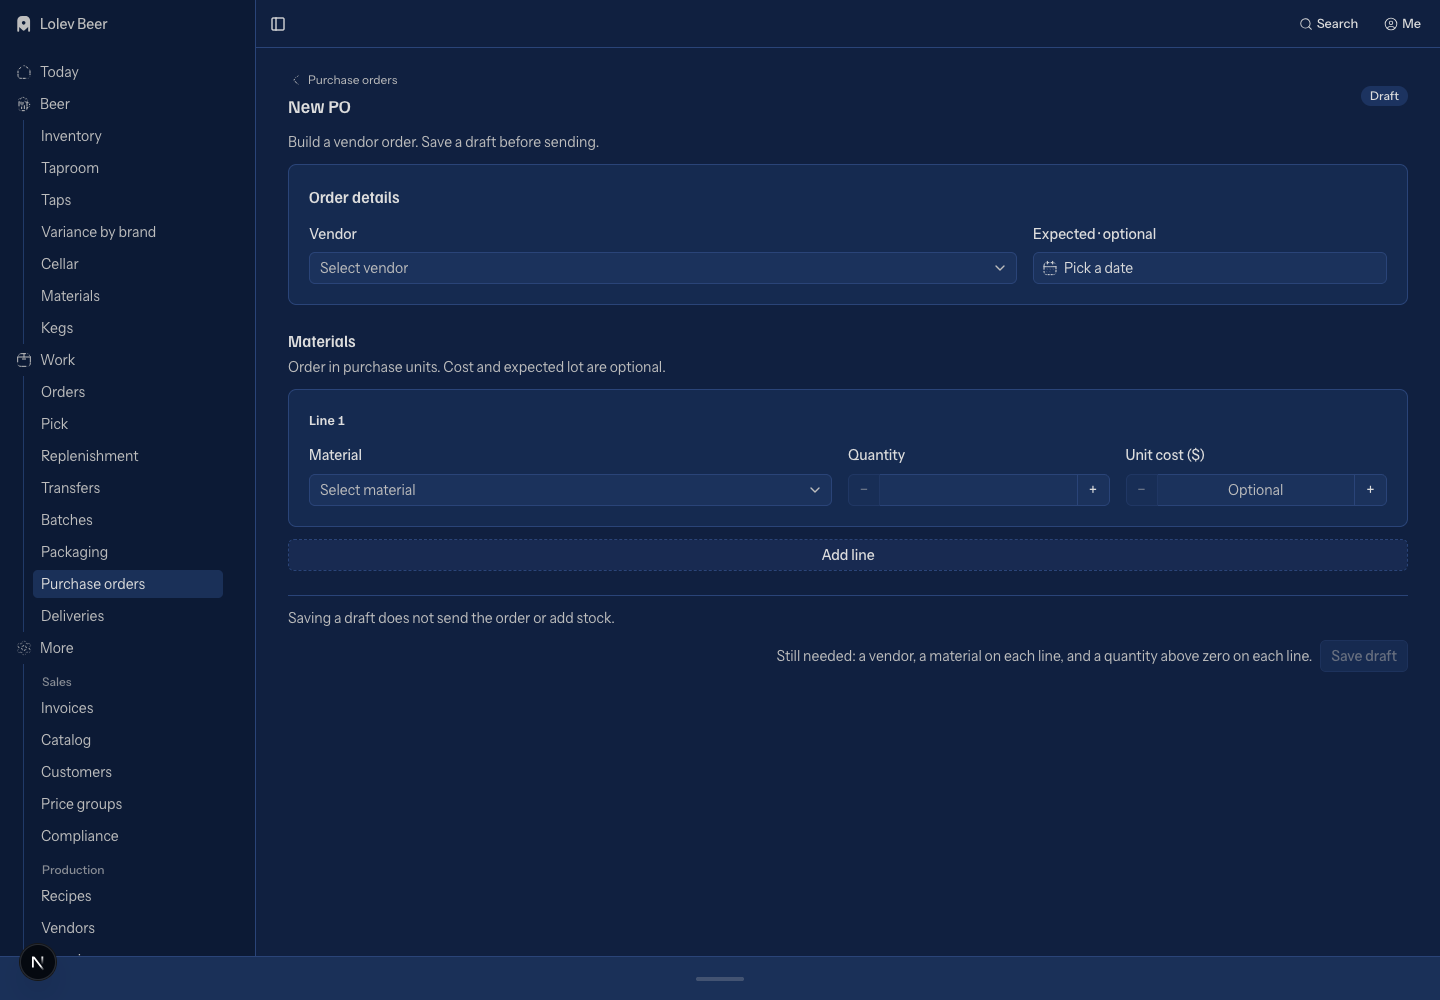
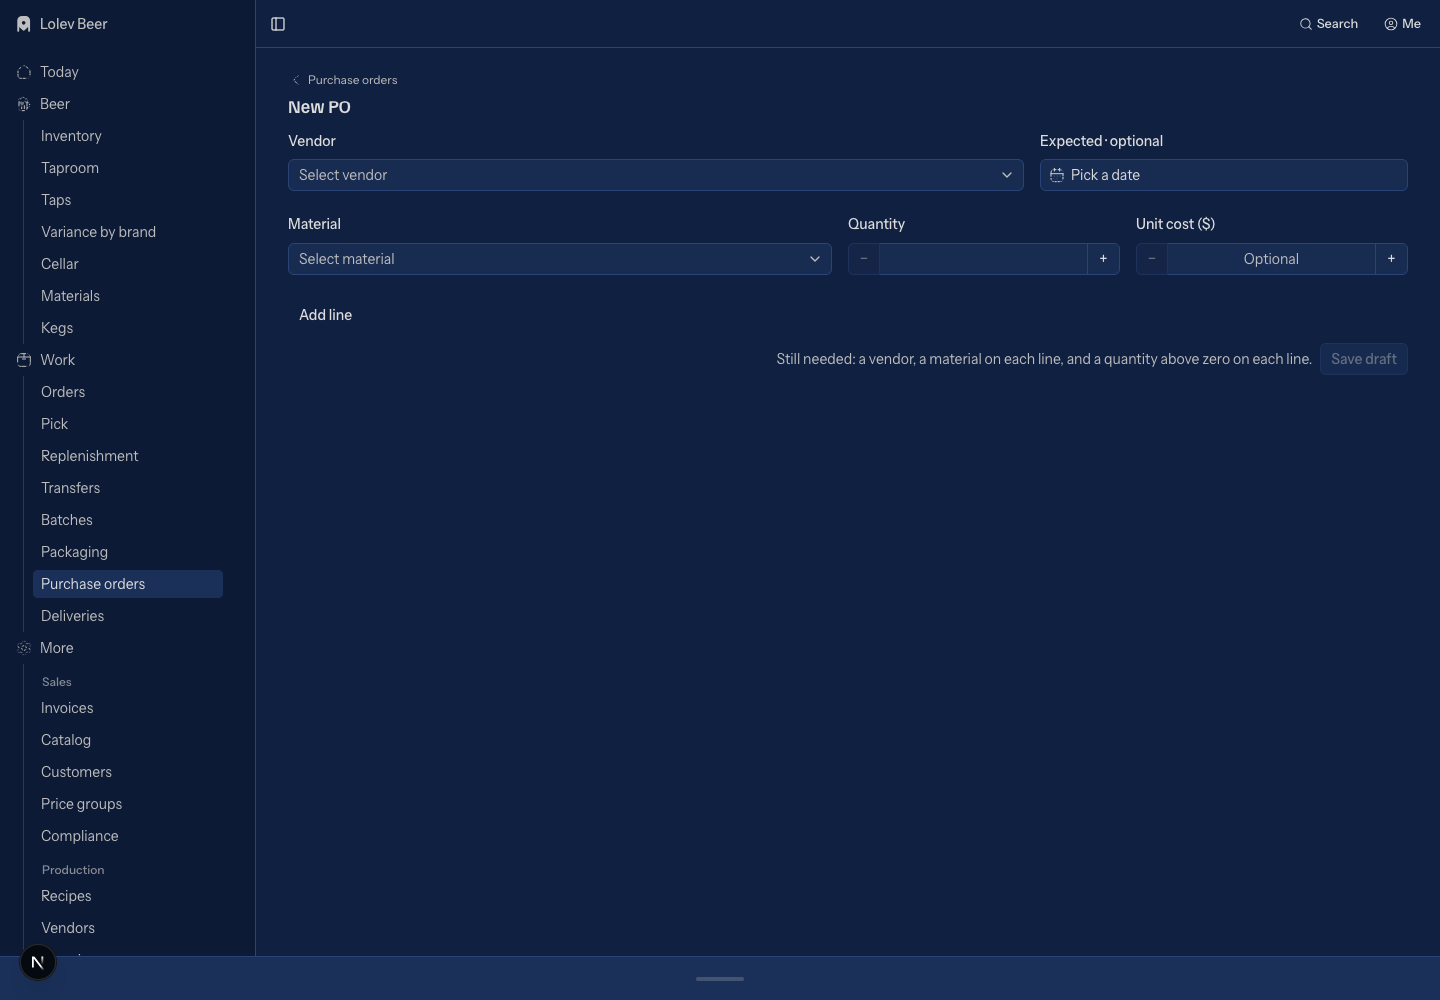
Flatten purchase order form and remove redundant chrome

diff --git a/components/mgr/views/new-po.tsx b/components/mgr/views/new-po.tsx
@@ -4,9 +4,7 @@ import { useId, type ReactNode } from "react";
 import { E } from "@/components/mgr/e";
 import { Button } from "@/components/ui/button";
 import { DatePicker } from "@/components/mgr/date-picker";
-import { Badge } from "@/components/ui/badge";
 import { FieldGroup } from "@/components/ui/field";
-import { Separator } from "@/components/ui/separator";
 import { poLineErrors, type NewPoViewModel } from "@/lib/mgr/new-po-view";
 import { noMaterialsPick } from "@/lib/mgr/materials-view";
 import { useTouchedLines } from "@/lib/mgr/touched-lines";
@@ -30,24 +28,16 @@ export function NewPoView({ model, controls = {}, messages, footer, submitting =
   const vendors = model.vendors ?? [{ id: model.vendor, name: model.vendor }];
   const vendorOptions = [{ value: "", label: "Select vendor" }, ...vendors.map(vendor => ({ value: vendor.id, label: vendor.name }))];
   return <>
-    {E.back("Purchase orders", "New PO", <Badge variant="secondary">Draft</Badge>, model.backHref)}
-    <p className="text-sm text-muted-foreground">Build a vendor order. Save a draft before sending.</p>
+    {E.back("Purchase orders", "New PO", undefined, model.backHref)}
     <fieldset disabled={submitting} className="flex min-w-0 flex-col gap-6">
-      <section aria-labelledby={`${id}-details`} className="rounded-xl border bg-card p-4 md:p-5">
-        <h2 id={`${id}-details`} className="mb-4 text-base font-semibold">Order details</h2>
-        <FieldGroup className="grid gap-4 md:grid-cols-[2fr_1fr]">
-          {E.pick("Vendor", model.vendor, vendorOptions, {
-            onChange: controls.vendor, required: true, id: `${id}-vendor`,
-            empty: { text: "No vendors yet.", label: "Add a vendor", href: model.vendorsHref, to: "Vendors" },
-          })}
-          <DatePicker label="Expected · optional" value={controls.expected ? model.expected : undefined} defaultValue={model.expected} onChange={controls.expected} />
-        </FieldGroup>
-      </section>
-      <section aria-labelledby={`${id}-materials`} className="flex min-w-0 flex-col gap-3">
-        <div>
-          <h2 id={`${id}-materials`} className="text-base font-semibold">Materials</h2>
-          <p className="mt-1 text-sm text-muted-foreground">Order in purchase units. Cost and expected lot are optional.</p>
-        </div>
+      <FieldGroup className="grid gap-4 md:grid-cols-[2fr_1fr]">
+        {E.pick("Vendor", model.vendor, vendorOptions, {
+          onChange: controls.vendor, required: true, id: `${id}-vendor`,
+          empty: { text: "No vendors yet.", label: "Add a vendor", href: model.vendorsHref, to: "Vendors" },
+        })}
+        <DatePicker label="Expected · optional" value={controls.expected ? model.expected : undefined} defaultValue={model.expected} onChange={controls.expected} />
+      </FieldGroup>
+      <div className="flex min-w-0 flex-col gap-6">
         {model.lines.map((line, index) => {
           // Inventory snapshots format money; editable numeric fields use dollars only.
           const cost = controls.cost ? line.cost : line.cost.replace(/^\$/, "");
@@ -58,14 +48,7 @@ export function NewPoView({ model, controls = {}, messages, footer, submitting =
             label: material.name + (material.purchase_uom ? ` · ${material.purchase_uom}` : ""),
           }))];
           const selectedMaterial = controls.material ? line.materialId ?? "" : line.materialId ?? line.key;
-          return <section key={line.key} aria-labelledby={`${id}-line-${index}`} className="min-w-0 rounded-xl border bg-card p-4 md:p-5">
-            <div className="mb-4 flex items-center justify-between gap-3">
-              <h3 id={`${id}-line-${index}`} className="text-sm font-semibold">Line {index + 1}</h3>
-              {model.lines.length > 1 && <Button type="button" variant="ghost" size="sm" aria-describedby={`${id}-line-${index}`} onClick={() => {
-                controls.remove?.(index);
-                touched.remove(index);
-              }}>Remove</Button>}
-            </div>
+          return <section key={line.key} aria-label={`Line ${index + 1}`} className="min-w-0">
             <FieldGroup className="grid min-w-0 grid-cols-1 gap-4 min-[390px]:grid-cols-2 lg:grid-cols-[minmax(0,2fr)_minmax(0,1fr)_minmax(0,1fr)]">
               <div className="min-w-0 min-[390px]:col-span-2 lg:col-span-1">
                 {E.pick("Material", selectedMaterial, materialOptions, {
@@ -73,7 +56,6 @@ export function NewPoView({ model, controls = {}, messages, footer, submitting =
                   required: true, "aria-label": `Line ${index + 1} material`, id: `${id}-material-${index}`,
                   empty: noMaterialsPick(model.materialsHref),
                 })}
-                {line.detail && <p className="mt-2 text-xs text-muted-foreground">{line.detail}</p>}
               </div>
               {E.edit("Quantity", String(line.qty), "number", undefined, {
                 required: true, min: 0, step: "any", id: `${id}-qty-${index}`, "aria-label": `Line ${index + 1} quantity`,
@@ -88,24 +70,23 @@ export function NewPoView({ model, controls = {}, messages, footer, submitting =
                 error: errors.cost,
               })}
             </FieldGroup>
-            {line.lot !== undefined && <div className="mt-4 flex flex-col gap-4">
-              <Separator />
+            {line.lot !== undefined && <div className="mt-4">
               {E.edit("Expected lot · optional", line.lot, "text", undefined, {
                 onChange: controls.lot ? value => controls.lot?.(index, value) : undefined,
                 id: `${id}-lot-${index}`, "aria-label": `Line ${index + 1} expected lot`,
-                "aria-describedby": `${id}-lot-hint-${index}`, placeholder: "Lot named by the vendor",
+                placeholder: "Lot named by the vendor",
               })}
-              <p id={`${id}-lot-hint-${index}`} className="mt-2 text-xs text-muted-foreground">A reference for receiving. Confirm the actual lot on the package when it arrives.</p>
             </div>}
+            {model.lines.length > 1 && <Button type="button" variant="ghost" size="sm" className="mt-2" aria-label={`Remove line ${index + 1}`} data-to="New PO" onClick={() => {
+              controls.remove?.(index);
+              touched.remove(index);
+            }}>Remove</Button>}
           </section>;
         })}
-        <Button type="button" variant="outline" className="w-full border-dashed" onClick={controls.add}>Add line</Button>
-      </section>
+        <Button type="button" variant="ghost" className="w-fit" onClick={controls.add}>Add line</Button>
+      </div>
     </fieldset>
     {messages}
-    {E.sp()}
-    <Separator />
-    <p className="text-sm text-muted-foreground">Saving a draft does not send the order or add stock.</p>
     {footer !== undefined ? footer : E.pin(E.submit("Save draft", { submitting, reason }))}
   </>;
 }

diff --git a/components/mgr/screens.tsx b/components/mgr/screens.tsx
@@ -1944,7 +1944,7 @@ export const SCREENS: Screen[] = [
     reads: "list_vendors · list_materials · get_material_requirements",
     writes: "create_purchase_order [one RPC: draft PO + all lines]",
     states: [["permission", "warehouse or admin required", 1], ["new", "vendor and one line required · every line needs a material and a quantity above zero · Remove drops a line"], ["from requirements", "Planning drafts the lines; the shortfall is the quantity"], ["contracted lot", "the vendor named a lot on the contract · it prefills receiving"], ["no lot named", "the ordinary case · receiving captures it off the package"]],
-    spec: "Order details groups vendor and optional expected date. Materials are numbered cards: material, labeled quantity in purchase units, and optional unit cost align on desktop; material stacks above quantity and cost on phone. Each card owns its Remove action and optional expected lot. Expected lot is what the vendor named when the order was placed. It is advisory: it creates no lot record and posts nothing, and it is offered only on a lot-tracked material. Receiving prefills its lot from it; the actual package decides the received lot. The footer explains that saving a draft neither sends the order nor adds stock.",
+    spec: "A flat form: vendor and optional expected date, then material lines with visible quantity and unit-cost labels. Spacing groups related fields without cards, repeated section headings, line-number headings, a Draft badge, or instructional paragraphs. Material, quantity, and cost align on large screens; smaller screens stack material above the numeric fields, and the narrowest screens stack all three. Each line owns its Remove action and optional expected lot. Expected lot is advisory, creates no lot record, and only appears for lot-tracked materials. Receiving prefills from it; the actual package decides the received lot. Save draft retains its validation reason.",
     body: <NewPoView model={newPoCountryMalt} />,
   },
   {

diff --git a/docs/design/purchase-order-new/README.md b/docs/design/purchase-order-new/README.md
@@ -4,6 +4,8 @@
 
 [Desktop and phone wireframes](mockups.svg) ([PNG preview](mockups.png)). These are design mockups, not application screenshots.
 
+The final design is a flat form. Card containers, the Draft badge, section and line-number headings, repeated material metadata, instructional paragraphs, and separators were removed in response to review. Field labels, optional-lot inputs, line actions, errors, and Save draft remain.
+
 ## Before and after
 
 Screenshots of the local `/purchase-orders/new` route with the same empty draft and dark theme. Desktop: 1440 × 1000. Phone: 390 × 844.
@@ -29,8 +31,8 @@ Both paths keep the full-page staff surface. The live adapter, command payload, 
 
 - Real local app: vendor/material selection, negative quantity error after blur, correction to 40.5 purchase units, Add line, removal of the incomplete line, enabled Save draft, successful save and redirect to the PO list showing PO-0001 · Country Malt · draft.
 - Rendered inventory: three lines, expected lots on the two tracked materials, no expected-lot field on the untracked material.
-- Browser geometry: at 320px, numeric groups are 254px wide and vertically separated; at 768px, groups are 195px wide with a 16px gap. Neither page exceeds its viewport width.
+- Flat-form browser smoke: negative quantity error after blur, correction to 2.5, Add line and Remove. At 320px, numeric groups are 288px wide and vertically separated; the page width is exactly 320px. Desktop and 390px phone screenshots were refreshed.
 - Screen-only proof plus purchasing, form feedback, and composition checks: 263 tests across 10 files pass. TypeScript passes. ESLint exits zero with seven warnings in unchanged files.
-- Simplification extracted existing option lists into named locals and expanded callbacks without adding abstractions. Independent read-only comparison found no behavioral change. Haiku explained the final function and callbacks; its remaining fallback-option concerns describe unchanged behavior, not regressions introduced by this redesign.
+- Simplification removes decorative wrappers and copy without changing option lists, command callbacks, validation, or footer suppression. Line regions and Remove buttons retain nonvisual line numbers for assistive technology.
 
 The responsive review finding was fixed by using one column below 390px, two columns up to 1023px, and three columns from 1024px. No parity-debt entry was added or removed.
